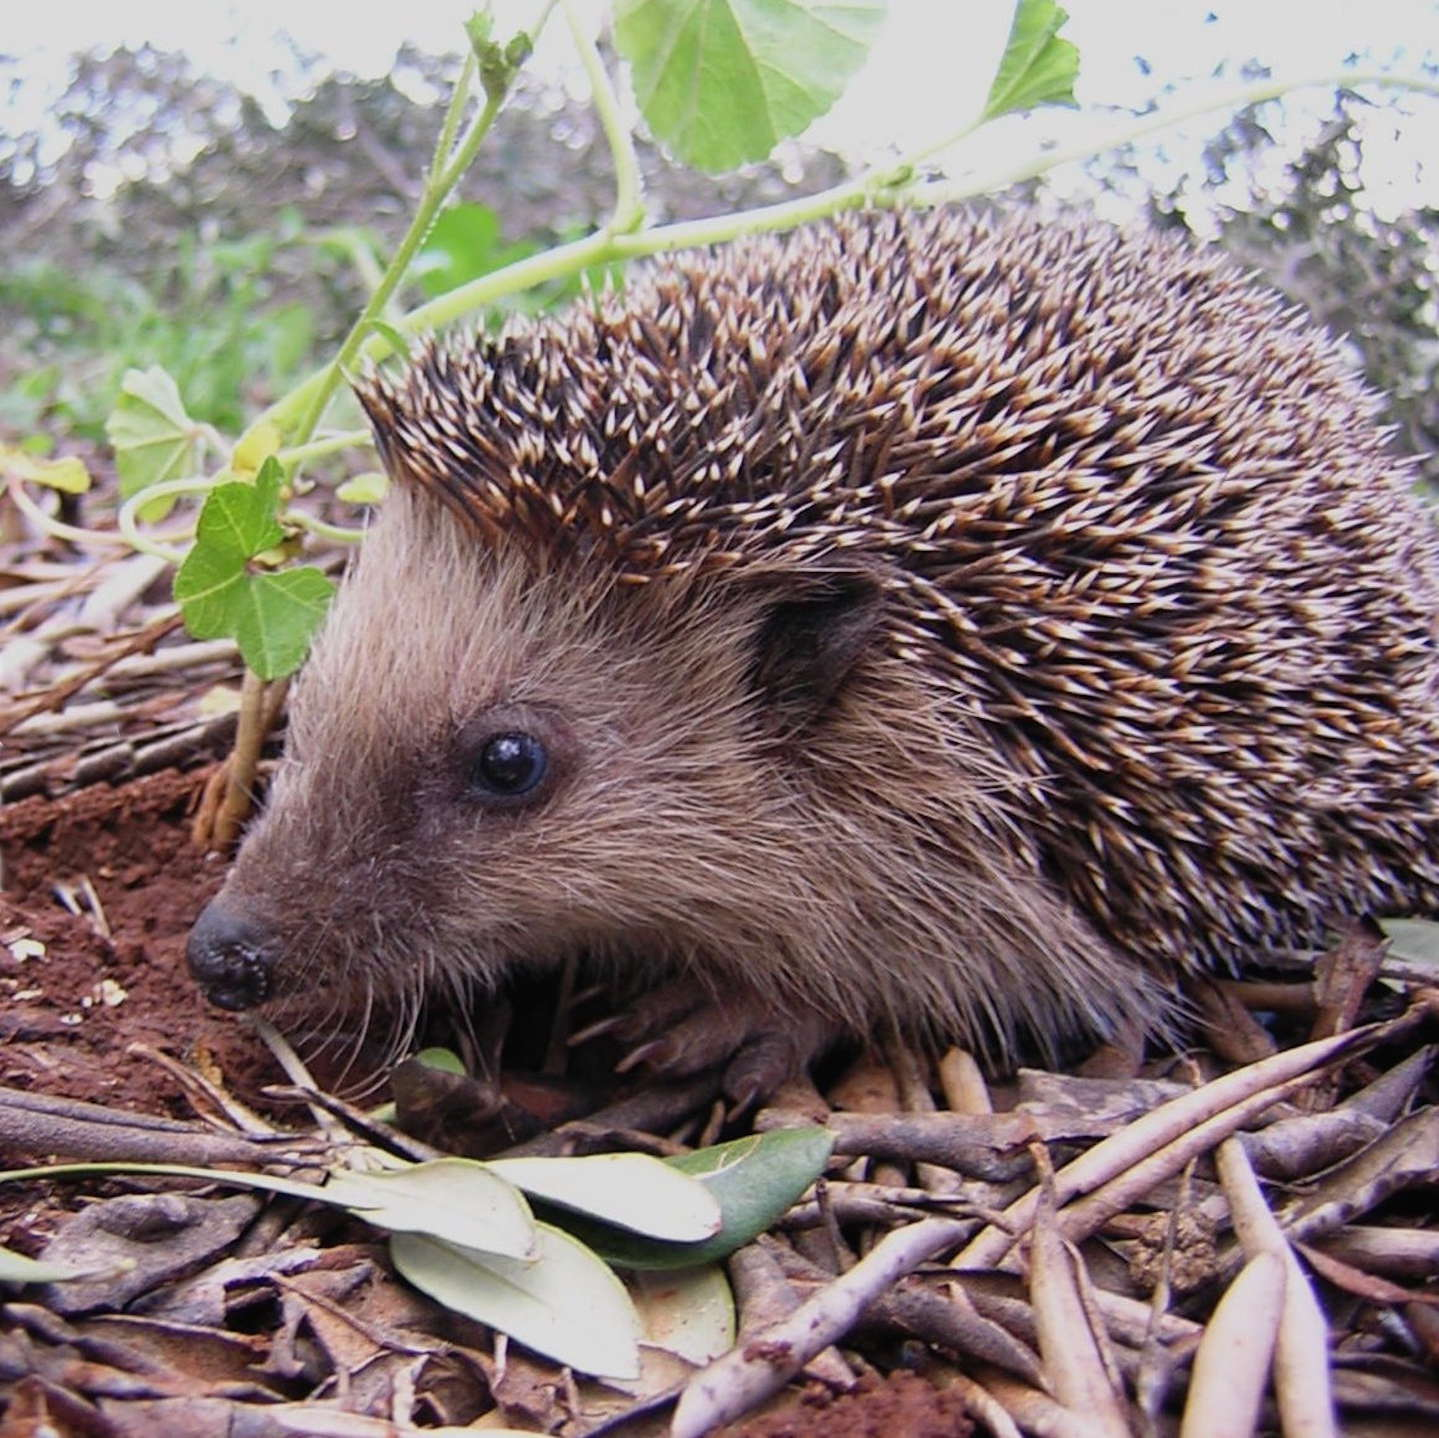
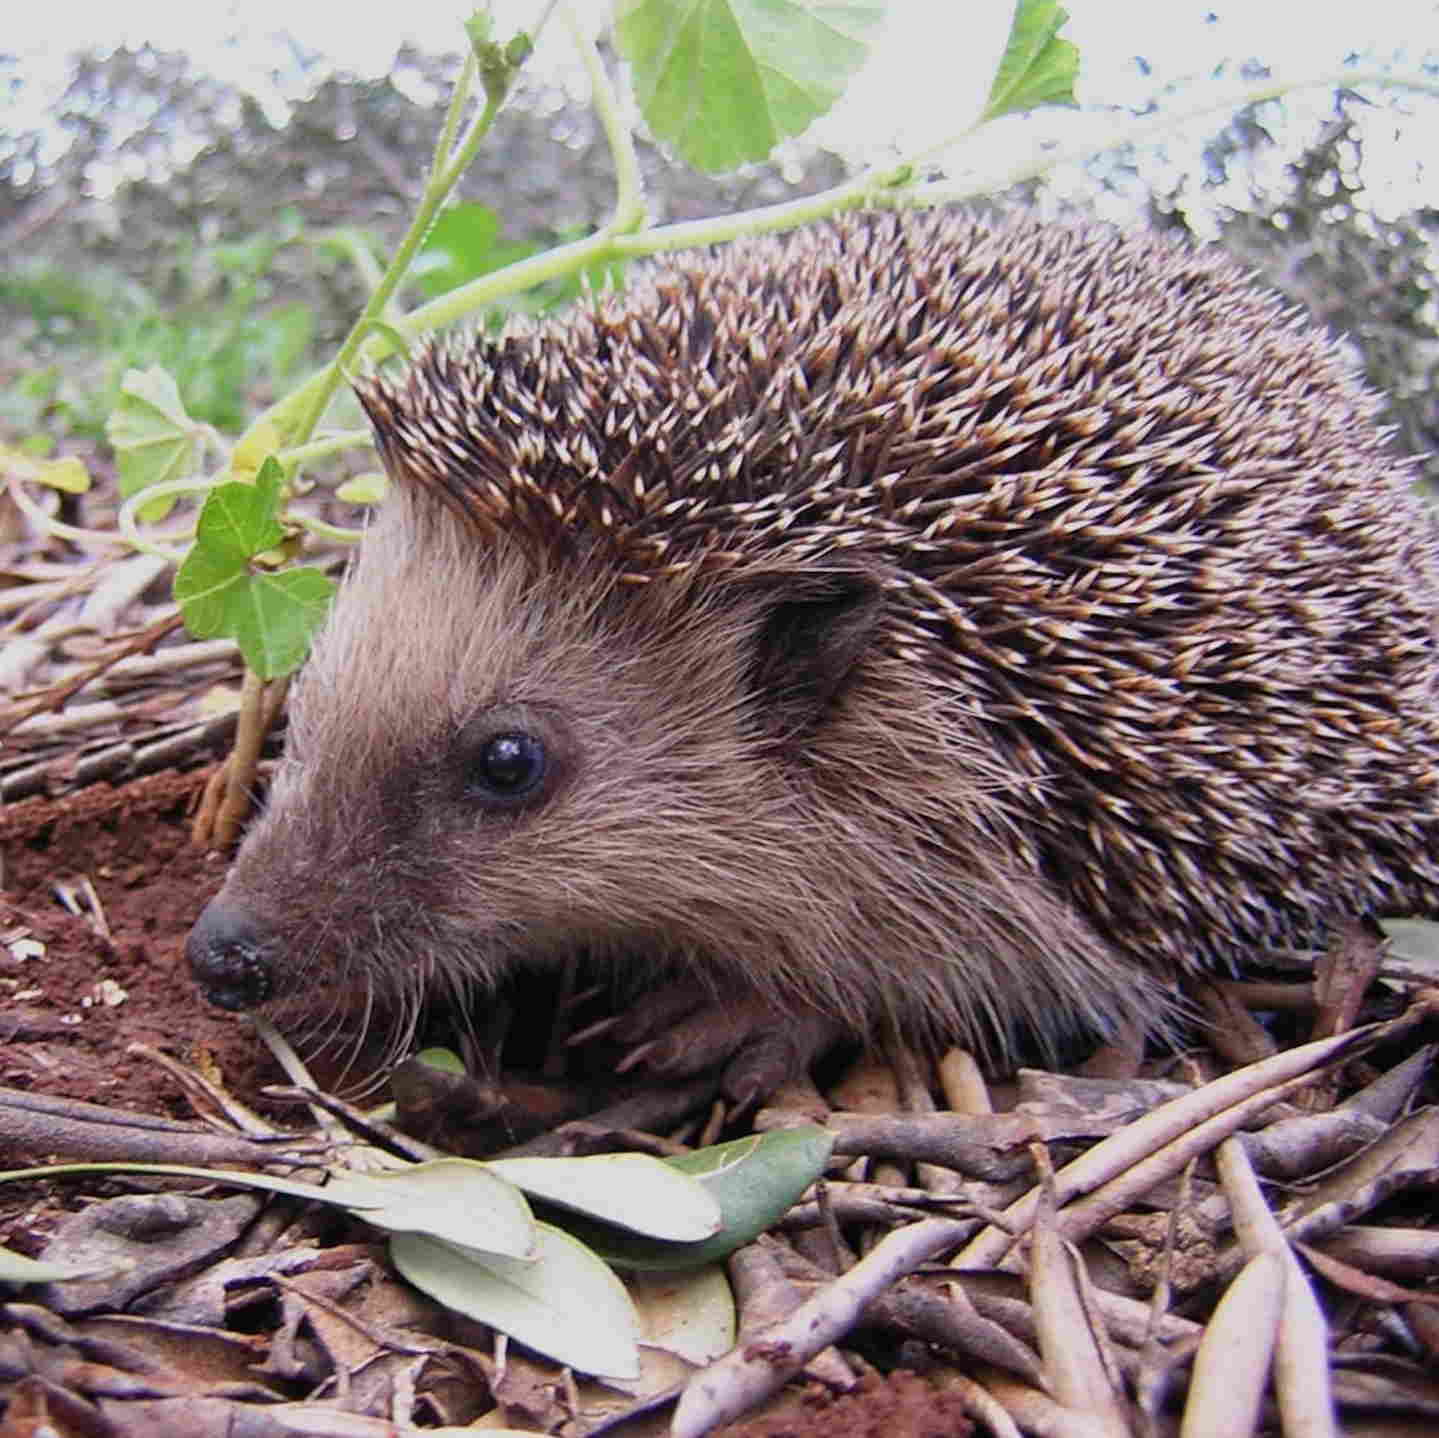
Minor cleanup
- Recompressed large photo
- Removed some unused CSS

diff --git a/www/style/default.css b/www/style/default.css
@@ -51,30 +51,6 @@ ul {
 	clip: rect(1px, 1px, 1px, 1px);
 }
 
-/* screenshot pages */
-.screenshot {
-	background: #333; /* $gray */
-}
-.screenshot a {
-	height: 100%;
-}
-.screenshot img { /* full-page centered image */
-	display: block;
-	margin: auto;
-	max-height: 100%;
-	max-width: 100%;
-}
-
-/* overlay image, for comparison */
-.overlay {
-	display: block;
-	position: absolute;
-	top: 0;
-	width: 100%;
-	opacity: 0.5;
-	z-index: 1;
-}
-
 /* android style */
 .android h1 {
 	border-bottom: 0.15rem solid #33b5e5; /* $blue */
